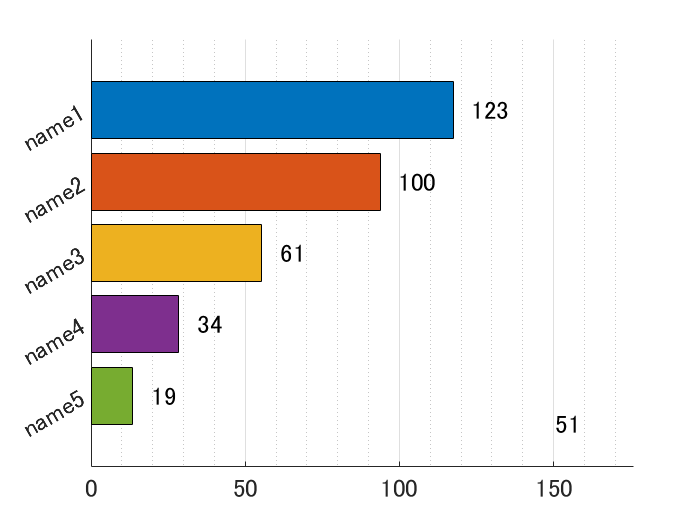
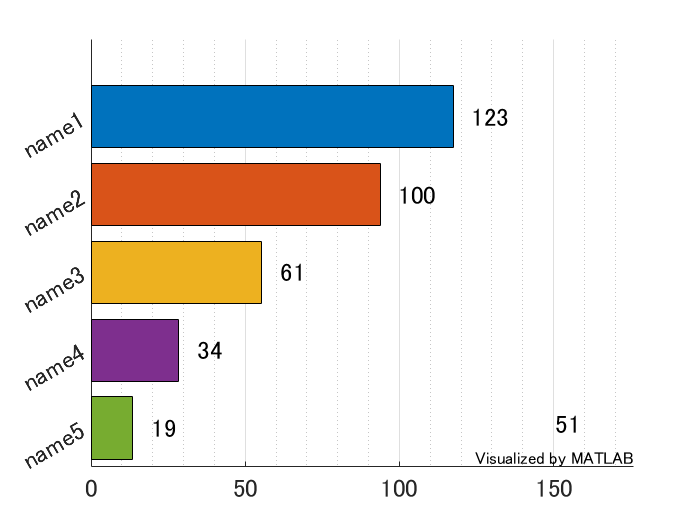
Added FontSize, DisplayFontSize, YTickLabelRotation options. Added "Visualized by MATLAB" message at the bottom.

diff --git a/function/barChartRace.m b/function/barChartRace.m
@@ -47,6 +47,12 @@ function [handle_barplot,handle_dataplot] = barChartRace(inputs,options)
 %      'IsInteger' If TRUE, the text shown next to each bar will be arounded to interger value.
 %                  The default is TRUE.
 %
+%      'FontSize' Axes fontsize, the default is 15.
+%
+%      'DisplayFontSize' The fontsize of the time stamp display, the default is 15.
+%
+%      'YTickLabelRotation'  The angle of the y-axes label text, the default is 0.
+%
 %      'Position' The positin of the figure (1x4). The deafult is 'DefaultFigurePosition'
 %
 %
@@ -74,14 +80,17 @@ arguments
     options.Time (:,1) {mustBeTimeInput(options.Time,inputs)} = setDefaultTime(inputs)
     options.LabelNames {mustBeVariableLabels(options.LabelNames,inputs)} = setDefaultLabels(inputs)
     options.ColorGroups {mustBeVariableLabels(options.ColorGroups,inputs)} = setDefaultLabels(inputs)
-    options.NumDisplay (1,1) double {mustBeInteger,mustBeNonzero} = size(setDefaultLabels(inputs));
+    options.NumDisplay (1,1) double {mustBeInteger,mustBeNonzero} = length(setDefaultLabels(inputs));
     options.NumInterp (1,1) double {mustBeInteger,mustBeNonzero} = 2;
     options.Method char {mustBeMember(options.Method,{'linear','spline'})} = 'linear'
     options.GenerateGIF (1,1) {mustBeNumericOrLogical} = false
-    options.Outputfilename char {mustBeNonempty} = 'output'
+    options.Outputfilename char {mustBeNonempty} = 'output.gif'
     options.XlabelName char = ""
     options.IsInteger (1,1) {mustBeNumericOrLogical} = true
-    options.Position (1,4) {mustBeNumeric} = get(0, 'DefaultFigurePosition')
+    options.FontSize (1,1) double {mustBeInteger,mustBeNonzero} = 15
+    options.DisplayFontSize (1,1) double {mustBeInteger,mustBeNonzero} = 15
+    options.YTickLabelRotation (1,1) double {mustBeReal} = 0
+    options.Position (1,4) double {mustBeNumeric} = get(0, 'DefaultFigurePosition')
 end
 
 
@@ -174,12 +183,16 @@ end
 x = x(1:NumDisplay);
 y = y(1:NumDisplay);
 displayText = displayText(1:NumDisplay);
-handle_text = text(x,y,displayText,'FontSize',15);
+handle_text = text(x,y,displayText,'FontSize',options.FontSize);
 
 % Display time
 handle_timeText = text(0.9,0.1,string(time2plot(1)),'HorizontalAlignment','right',...
-    'Units','normalized','FontSize',15);
+    'Units','normalized','FontSize', options.DisplayFontSize);
 handle_axes.XLabel.String = XlabelName;
+
+% Display created by MATLAB message
+text(0.99,0.02,"Visualized by MATLAB",'HorizontalAlignment','right',...
+    'Units','normalized','FontSize', 10,'Color',[0.9,0.9,0.9]);
 
 % Change the Bar Color
 handle_bar.FaceColor = 'flat';

diff --git a/README.md b/README.md
@@ -91,6 +91,21 @@ This repository provides a function that generates a bar chart race plot.
 
 
 
+**'FontSize':** Axes fontsize, the default is 15.
+
+
+
+
+**'DisplayFontSize':** The fontsize of the time stamp display, the default is 15.
+
+
+
+
+**'YTickLabelRotation':** The angle of the y-axes label text, the default is 0.
+
+
+
+
 **'Position':** The positin of the figure (1x4). The deafult is 'DefaultFigurePosition'.
 
 
